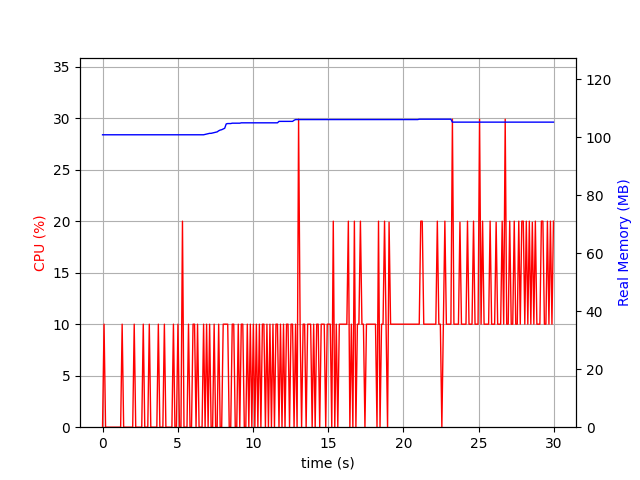
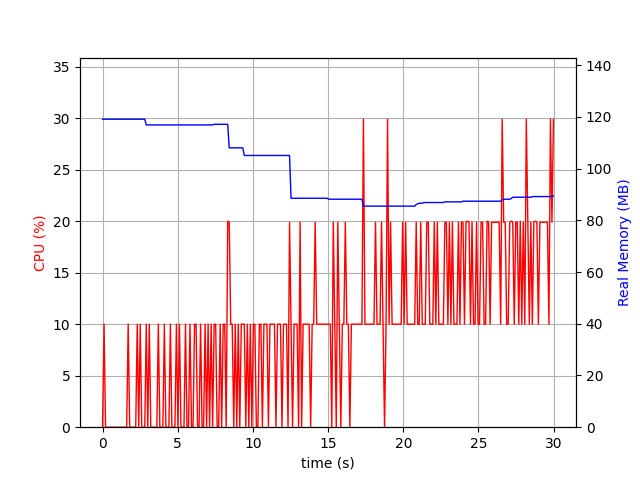
add more results

diff --git a/bench-results/README.md b/bench-results/README.md
@@ -32,4 +32,11 @@ So, 50 requests/s over a duration of 30 seconds using [`bench.sh`](../bench.sh)
 * Kernel `6.1.0-38-amd64`
 * 10core VM on Promxox
   
-![rpi5 results](plot_13400.png)
+![it-13400 results](plot_13400.png)
+
+### 5700x
+
+* Arch
+* Kernel `6.14.7-arch2-1`
+  
+![5700x results](plot_5700x.png)
